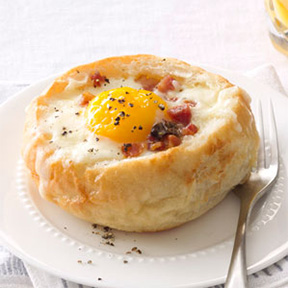
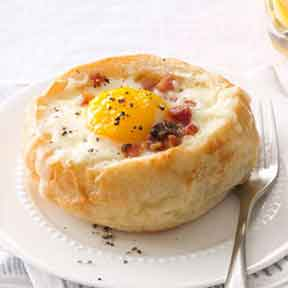
optimized the images

diff --git a/index.html b/index.html
@@ -26,9 +26,9 @@
 
           </div>
 					<div class="unit unit-xs-2-3 unit-s-2-3 unit-m-1-3 unit-l-1-3">
-						<h1>Cit-E Eating</h1>
+						<h1 class="type2 text-center">Cit-E Eating</h1>
 					</div>
-          <nav role="navigation" id="nav" class="unit unit-xs-1 unit-s-1 unit-m-1-3 unit-l-1-3">
+          <nav role="navigation" id="nav" class="type2 unit unit-xs-1 unit-s-1 unit-m-1-3 unit-l-1-3">
             <ol class="nav giga list-group list-group--inline">
               <li><a class="btn island-1-2" href="tour.html">Tour</a></li>
               <li><a class="btn island-1-2" href="price.html">Price</a></li>
@@ -41,50 +41,50 @@
     <main role="main" id="main">
       <div role="banner" class="grid intro text-center">
           <div class="unit unit-xs-1 unit-s-1 unit-m-1 unit-l-1">
-            <p class="exa white">Never Fear!<br> Recipes Here!</p>
+            <p class="exa white type1">Never Fear!<br> Recipes Here!</p>
           </div>
           <div class="unit unit-xs-1 unit-s-1 unit-m-1 unit-l-1">
-            <p class="white">The virtual cook book with authentic italian recipes for your home cooking</p>
+            <p class="white type2">The virtual cook book with authentic italian recipes for your home cooking</p>
           </div>
           <div class="unit unit-xs-1 unit-s-1 unit-m-1 unit-l-1">
-            <a class="btn" href="signup.html">Sign Up!</a>
+            <a class="btn type2" href="signup.html">Sign Up!</a>
           </div>
       </div>
 
       <div class="grid text-center">
         <div class="white middle1 unit unit-xs-1 unit-s-1 unit-m-1-2 unit-l-1-2">
-          <h2>Take a look at our Tour!</h2>
+          <h2 class="type1">Take a look at our Tour!</h2>
 					<div class="unit unit-xs-1 unit-s-1 unit-m-1 unit-l-1">
           	<img class="logo" src="images/icon1.png" alt="">
 					</div>
 					<div class="unit unit-xs-1 unit-s-1 unit-m-1 unit-l-1">
-          	<p>Our services provide recipes for all occasions</p>
+          	<p class="type2">Our services provide recipes for all occasions</p>
 					</div>
 					<div class="unit unit-xs-1 unit-s-1 unit-m-1 unit-l-1">
-          	<a class="btn" href="tour.html">Tour</a>
+          	<a class="btn type2" href="tour.html">Tour</a>
 					</div>
         </div>
 
         <div class="white middle2 unit unit-xs-1 unit-s-1 unit-m-1-2 unit-l-1-2">
-          <h3>Take a look at our Deals!</h3>
+          <h3 class="type1">Take a look at our Deals!</h3>
 					<div class="unit unit-xs-1 unit-s-1 unit-m-1 unit-l-1">
           	<img class="logo" src="images/icon2.png" alt="">
 					</div>
 					<div class="unit unit-xs-1 unit-s-1 unit-m-1 unit-l-1">
-          	<p>Our plans are made for all ranges of cooking skills.</p>
+          	<p class="type2">Our plans are made for all ranges of cooking skills.</p>
 					</div>
 					<div class="unit unit-xs-1 unit-s-1 unit-m-1 unit-l-1">
-          	<a class="btn" aria-label="view our plans" href="price.html">Prices</a>
+          	<a class="btn type2" aria-label="view our plans" href="price.html">Prices</a>
 					</div>
         </div>
 
-			  <div class="white bottom unit unit-xs-1 unit-s-1 unit-m-1 unit-l-1">
+			  <div class="type1 white bottom unit unit-xs-1 unit-s-1 unit-m-1 unit-l-1">
 			  	<h3>Join The Family!</h3>
 						<div class="unit unit-xs-1 unit-s-1 unit-m-1 unit-l-1">
 			  			<img class="logo" src="images/icon3.png" alt="">
 						</div>
 						<div class="unit unit-xs-1 unit-s-1 unit-m-1 unit-l-1">
-			  			<a class="btn" aria-label="sign Up" href="signup.html">Sign Up</a>
+			  			<a class="btn type2" aria-label="sign Up" href="signup.html">Sign Up</a>
 						</div>
 			  </div>
 			</div>
@@ -99,7 +99,7 @@
 
 
         <div class="unit unit-xs-1-2 unit-s-1-3 unit-m-1-3 unit-l-1-3 island-1-4">
-          <div><h3>LEARN MORE</h3>
+          <div><h3 class="type2 text-center">LEARN MORE</h3>
           </div>
           <nav>
             <ol class="list-group">
@@ -111,7 +111,7 @@
         </div>
 
         <div class="unit unit-xs-1 unit-s-1-3 unit-m-1-3 unit-l-1-3 island-1-4">
-					<div><h3>CONTACT US</h3>
+					<div><h3 class="type2">CONTACT US</h3>
 					</div>
           <a href="https://www.facebook.com"><img class="icon i--32" src="images/facebook.png" alt="Facebook Link"></a>
           <a href="https://www.twitter.com"><img class="icon i--32" src="images/twitter.png" alt="Twitter Link"></a>

diff --git a/thankyou.html b/thankyou.html
@@ -1,4 +1,4 @@
-!DOCTYPE html>
+<!DOCTYPE html>
 <html lang="en-ca">
 	<head>
 		<meta charset="utf-8">
@@ -31,6 +31,17 @@
         </nav>
       </div>
     </header>
+
+    <main role="main" id="main">
+      <div role="banner" class="grid intro text-center">
+          <div class="unit unit-xs-1 unit-s-1 unit-m-1 unit-l-1">
+            <p class="exa white">Thankyou!</p>
+          </div>
+          <div class="unit unit-xs-1 unit-s-1 unit-m-1 unit-l-1">
+            <a class="btn" href="index.html">Return to home page!</a>
+          </div>
+      </div>
+    </main>
 
     <footer id="footer" class="section masthead">
       <div class="grid grid-middle">

diff --git a/signup.html b/signup.html
@@ -120,13 +120,6 @@
 					</div>
 				</div>
 			</div>
-
-
-
-
-
-
-
     </main>
 
 		<footer id="footer" class="section masthead">
@@ -158,7 +151,5 @@
       	</div>
 			</div>
     </footer>
-
   </body>
-
 </html>

diff --git a/css/main.css b/css/main.css
@@ -71,6 +71,14 @@ ol{
 .btn2{
   background-color: #7A7E40;
 }
+
+.type1{
+  font-family: 'Pacifico', cursive;
+}
+
+.type2{
+  font-family: 'Oswald', sans-serif;
+}
 @media only screen and (min-width: 25em) {
 
 li{
